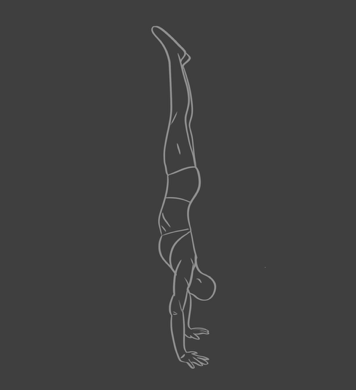
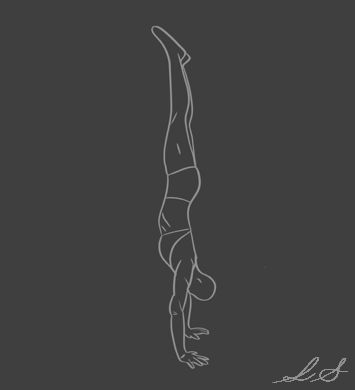
clean up hs, some selector stuff

diff --git a/my-app/src/pages/tutorials.jsx b/my-app/src/pages/tutorials.jsx
@@ -10,10 +10,12 @@ import Footer from "../components/footer";
 import BetaDisclaimer from "../components/betadisclaimer";
 import TutorialListCM from "../components/coremisc-tutorial-list";
 import Select from 'react-select';
-import { skillTitle } from "../utilites/skilltitles";
+import { Link } from "react-router-dom";
+
+
 
 const options = [{value: "assisted push-up", label: "assisted push-up"},
-  {value: "dip", label: "dip"},
+  {value: "dip", label: <Link to="/tutorials/dip">dip</Link>},
   {value: "elbow lever", label: "elbow lever"},
   {value: "planche lean", label: "planche lean"},
   {value: "pseudo push-up", label: "pseudo push-up"},
@@ -125,7 +127,6 @@ const selectStyles = {
     borderRadius: '8px',
     boxShadow: 'none',
     color: 'white',
-    baseColor: 'black',
   }),
   option: (provided, state) => ({
     ...provided,
@@ -137,6 +138,12 @@ const selectStyles = {
     fontFamily: 'Fira Sans',
     fontWeight: '200'
 
+  }),
+  singleValue: (provided) => ({
+    ...provided,
+    color: 'white',
+    fontFamily: 'Fira Sans',
+    fontWeight: '200'
   }),
 };
 

diff --git a/my-app/src/pages/guides/handstandguide.jsx b/my-app/src/pages/guides/handstandguide.jsx
@@ -35,7 +35,6 @@ export function HandstandGuide() {
           alt="handstand form"
           className="square-guide-image"
         />
-        <img src="aleyuhsig.jpg" alt="aleyuhsig" className="image-sig" />
       </div>
 
       <LineDivider />
@@ -60,7 +59,8 @@ export function HandstandGuide() {
           alt="shoulder mobility"
           className="square-guide-image"
         />
-        <img src="aleyuhsig.jpg" alt="aleyuhsig" className="image-sig" />
+        <div className="guide-caption">Try this stretch to practice shoulder mobility!</div>
+
 
         <div className="guide-text">
           Wrist extension is extremely important in the handstand as well. You
@@ -74,7 +74,7 @@ export function HandstandGuide() {
           alt="wrist extension"
           className="square-guide-image"
         />
-        <img src="aleyuhsig.jpg" alt="aleyuhsig" className="image-sig" />
+        <div className="guide-caption">Aim for 90 degrees of wrist extension.</div>
       </div>
       <LineDivider />
       <div className="guide-container">

diff --git a/my-app/src/pages/guides/trainingguide.css b/my-app/src/pages/guides/trainingguide.css
@@ -135,6 +135,22 @@
     }
 }
 
+.guide-caption {
+    display: flex;
+    font-family: Fira Sans;
+    font-size: 18px;
+    font-weight: 200;
+    align-self: center;
+    text-align: center;
+    margin-top: 10px;
+    color: rgb(161, 161, 161);
+
+    @media (max-width: 768px) {
+        font-size: 16px;
+        padding: 0 20px;
+    }
+}
+
 .guide-external-link {
     margin: 0 6px;
     text-decoration: none;

diff --git a/my-app/src/pages/tutorials.css b/my-app/src/pages/tutorials.css
@@ -17,6 +17,7 @@
     width: 70%;
     margin: 0 auto;
     padding: 20px 0;
+    color: white;
 
     @media (max-width: 768px) {
         width: 90%;
